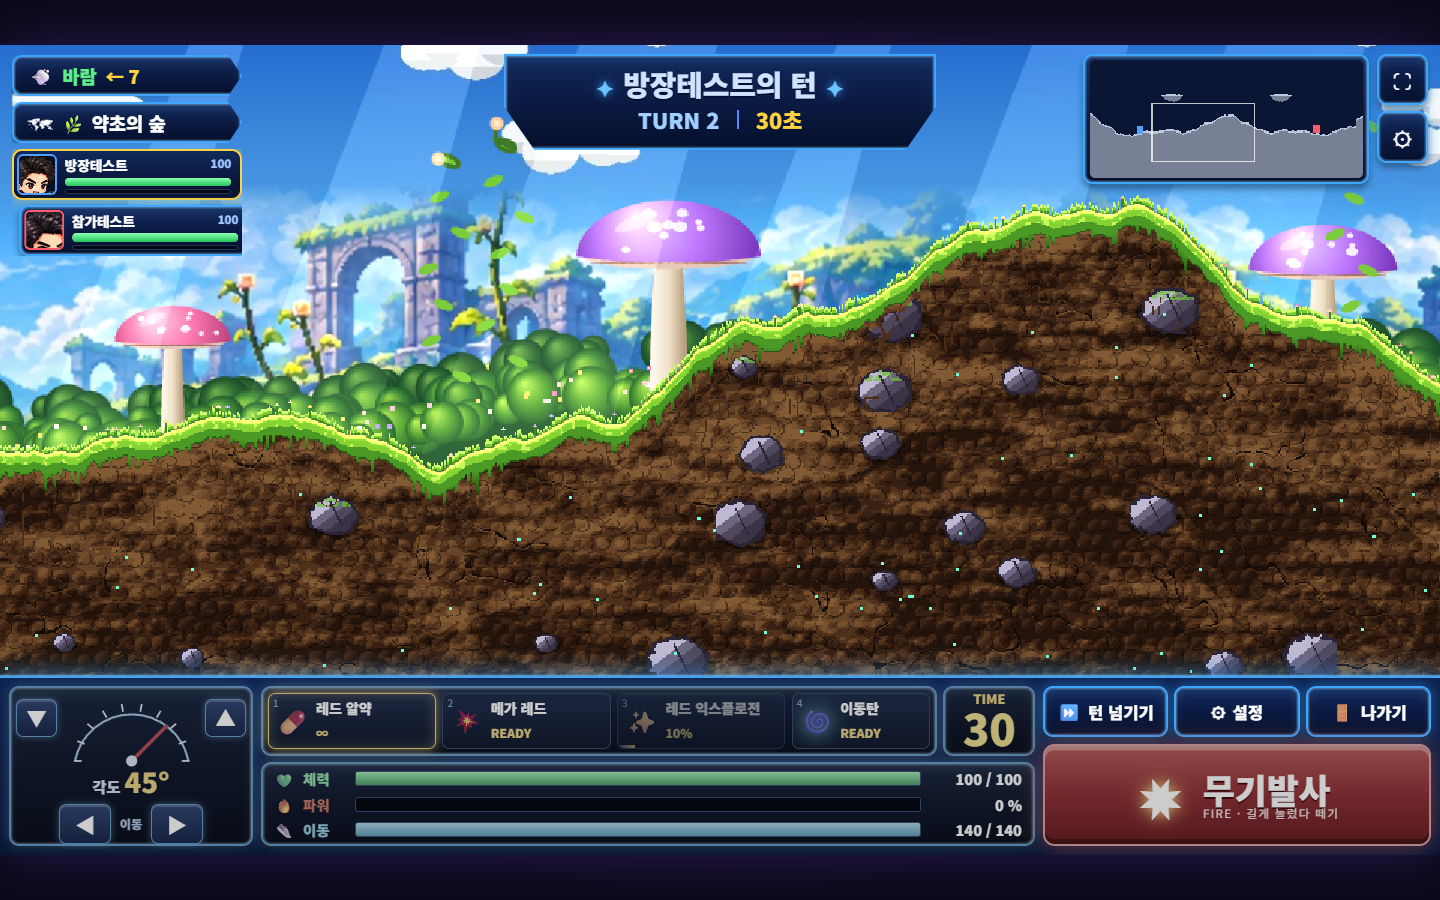
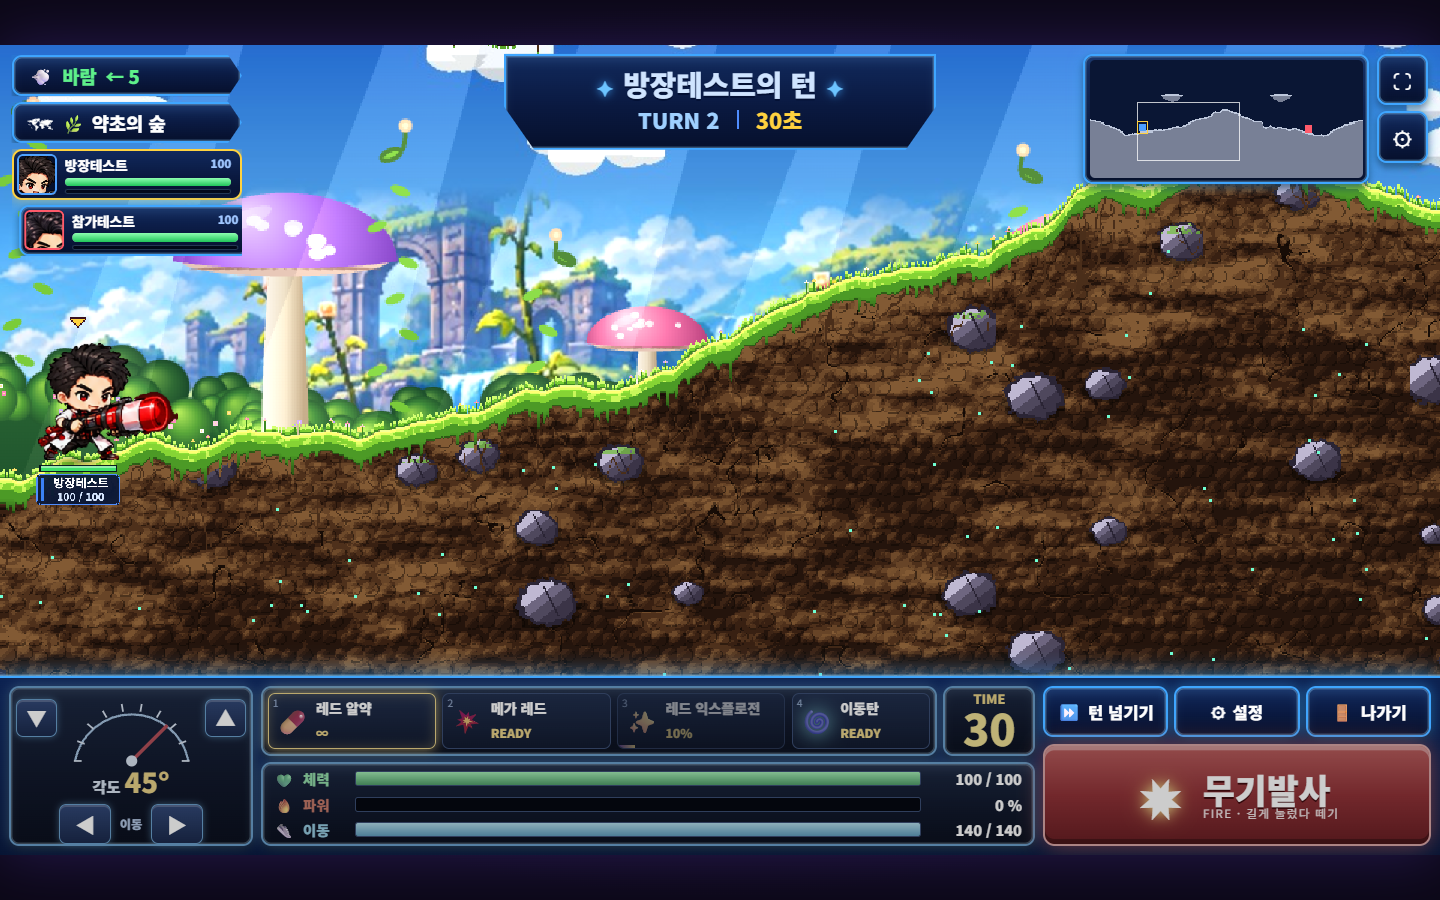
Connect Render server with cold-start handling

diff --git a/src/online/client.ts b/src/online/client.ts
@@ -4,43 +4,71 @@ export class OnlineClient {
   private ws: WebSocket | null = null;
   private heartbeat: number | null = null;
   private lastMessage = 0;
+  private pending: AbortController | null = null;
   id = '';
   onMessage: (m: ServerMessage) => void = () => {};
   onDisconnect: () => void = () => {};
   get connected() { return this.ws?.readyState === WebSocket.OPEN; }
   async connect() {
     this.close();
-    const response = await fetch(import.meta.env.BASE_URL + 'online-config.json', { cache: 'no-store' });
-    if (!response.ok) throw new Error('온라인 서버 설정을 읽을 수 없습니다.');
-    const config = await response.json();
-    const url = new URL(config.url);
-    if (!['ws:', 'wss:'].includes(url.protocol)) throw new Error('서버 주소가 올바르지 않습니다.');
-    let token = ''; try { token = sessionStorage.getItem('pf_guest_token') || ''; } catch {}
-    if (token) url.searchParams.set('token', token);
-    await new Promise<void>((resolve, reject) => {
-      const ws = this.ws = new WebSocket(url);
-      const timeout = window.setTimeout(() => { reject(new Error('서버 연결이 지연되고 있습니다. 다시 시도해 주세요.')); ws.close(); }, 20000);
-      ws.onmessage = e => {
-        this.lastMessage = Date.now();
-        const m = JSON.parse(e.data) as ServerMessage;
-        if (m.type === 'hello') {
-          clearTimeout(timeout);
-          if (m.version !== PROTOCOL) { reject(new Error('새로고침 후 다시 접속해 주세요.')); ws.close(); return; }
-          this.id = m.id; try { sessionStorage.setItem('pf_guest_token', m.token); } catch {}
-          resolve();
-        }
-        this.onMessage(m);
-      };
-      ws.onclose = () => { clearTimeout(timeout); reject(new Error('서버 연결이 종료되었습니다.')); this.clearHeartbeat(); this.onDisconnect(); };
-      ws.onerror = () => { clearTimeout(timeout); reject(new Error('온라인 서버에 연결할 수 없습니다.')); };
-    });
-    this.lastMessage = Date.now();
-    this.heartbeat = window.setInterval(() => {
-      if (Date.now() - this.lastMessage > 18000) this.ws?.close();
-      else this.send({ type: 'ping' });
-    }, 5000);
+    const pending = this.pending = new AbortController();
+    const deadline = window.setTimeout(() => pending.abort(new Error('서버 연결이 지연되고 있습니다. 다시 시도해 주세요.')), 90000);
+    try {
+      const response = await fetch(import.meta.env.BASE_URL + 'online-config.json', { cache: 'no-store', signal: pending.signal });
+      if (!response.ok) throw new Error('온라인 서버 설정을 읽을 수 없습니다.');
+      const config = await response.json();
+      const url = new URL(config.url);
+      if (!['ws:', 'wss:'].includes(url.protocol)) throw new Error('서버 주소가 올바르지 않습니다.');
+      // Free hosting may need time to wake before it accepts a WebSocket upgrade.
+      const health = new URL('/health', url);
+      health.protocol = url.protocol === 'wss:' ? 'https:' : 'http:';
+      for (;;) {
+        pending.signal.throwIfAborted();
+        let ready = false;
+        try {
+          const result = await fetch(health, { cache: 'no-store', signal: AbortSignal.any([pending.signal, AbortSignal.timeout(10000)]) });
+          ready = result.ok && (await result.json()).ok === true;
+        } catch { pending.signal.throwIfAborted(); }
+        if (ready) break;
+        await new Promise<void>((resolve, reject) => {
+          const cancel = () => { clearTimeout(timer); reject(pending.signal.reason); };
+          const timer = window.setTimeout(() => { pending.signal.removeEventListener('abort', cancel); resolve(); }, 1500);
+          pending.signal.addEventListener('abort', cancel, { once: true });
+        });
+      }
+      pending.signal.throwIfAborted();
+      let token = ''; try { token = sessionStorage.getItem('pf_guest_token') || ''; } catch {}
+      if (token) url.searchParams.set('token', token);
+      await new Promise<void>((resolve, reject) => {
+        const ws = this.ws = new WebSocket(url);
+        const cancel = () => { reject(pending.signal.reason); ws.close(); };
+        pending.signal.addEventListener('abort', cancel, { once: true });
+        const done = () => pending.signal.removeEventListener('abort', cancel);
+        ws.onmessage = e => {
+          this.lastMessage = Date.now();
+          const m = JSON.parse(e.data) as ServerMessage;
+          if (m.type === 'hello') {
+            done();
+            if (m.version !== PROTOCOL) { reject(new Error('새로고침 후 다시 접속해 주세요.')); ws.close(); return; }
+            this.id = m.id; try { sessionStorage.setItem('pf_guest_token', m.token); } catch {}
+            resolve();
+          }
+          this.onMessage(m);
+        };
+        ws.onclose = () => { done(); reject(new Error('서버 연결이 종료되었습니다.')); this.clearHeartbeat(); this.onDisconnect(); };
+        ws.onerror = () => { done(); reject(new Error('온라인 서버에 연결할 수 없습니다.')); };
+      });
+      this.lastMessage = Date.now();
+      this.heartbeat = window.setInterval(() => {
+        if (Date.now() - this.lastMessage > 18000) this.ws?.close();
+        else this.send({ type: 'ping' });
+      }, 5000);
+    } finally {
+      clearTimeout(deadline);
+      if (this.pending === pending) this.pending = null;
+    }
   }
   send(message: object) { if (this.connected) this.ws!.send(JSON.stringify(message)); }
   private clearHeartbeat() { if (this.heartbeat !== null) clearInterval(this.heartbeat); this.heartbeat = null; }
-  close() { this.clearHeartbeat(); if (this.ws) { this.ws.onclose = null; this.ws.onmessage = null; this.ws.close(); this.ws = null; } }
+  close() { this.clearHeartbeat(); if (this.ws) { this.ws.onclose = null; this.ws.onmessage = null; this.ws.onerror = null; this.ws.close(); this.ws = null; } this.pending?.abort(); this.pending = null; }
 }

diff --git a/src/online/lobby.ts b/src/online/lobby.ts
@@ -13,6 +13,8 @@ export class OnlineLobby {
   status = '서버에 연결하는 중…';
   private nickname = '';
   private noticeTimer = 0;
+  private connecting = false;
+  private connectVersion = 0;
   onStart: (m: StartMatch) => void = () => {};
   onFrame: (m: Frame) => void = () => {};
   onShow: () => void = () => {};
@@ -35,9 +37,15 @@ export class OnlineLobby {
     this.element.addEventListener('input', e => { const t = e.target as HTMLInputElement; if (t.name === 'nickname') { this.nickname = t.value; try { localStorage.setItem('pf_nickname', t.value); } catch {} } });
     this.render();
   }
-  async connect() { this.status = '서버에 연결하는 중…'; this.render(); try { await this.client.connect(); } catch (e) { this.status = (e as Error).message; this.render(); } }
+  async connect() {
+    const version = ++this.connectVersion;
+    this.connecting = true; this.status = '서버에 연결하는 중… 첫 접속은 약 1분 걸릴 수 있어요.'; this.render();
+    try { await this.client.connect(); }
+    catch (e) { if (version === this.connectVersion) this.status = (e as Error).message; }
+    finally { if (version === this.connectVersion) { this.connecting = false; this.render(); } }
+  }
   show() { this.playing = false; this.render(); }
-  close() { this.client.close(); window.clearTimeout(this.noticeTimer); }
+  close() { this.connectVersion++; this.client.close(); window.clearTimeout(this.noticeTimer); }
   private notice(message: string) {
     let toast = document.getElementById('online-notice');
     if (!toast) { toast = document.createElement('div'); toast.id = 'online-notice'; document.body.appendChild(toast); }
@@ -76,7 +84,7 @@ export class OnlineLobby {
     const cursor = focused ? (document.activeElement as HTMLInputElement).selectionStart : null;
     const r = this.room, me = r?.members.find(m => m.id === this.client.id), host = r?.host === this.client.id;
     this.element.innerHTML = `<div class="online-shell"><header><div><small>PHARMACIST FORTRESS · ONLINE</small><h1>${r ? esc(r.title) : '온라인 대전'}</h1></div><button data-action="${r ? 'leave' : 'back'}" class="btn ghost">${r ? '방 나가기' : '메인으로'}</button></header>
-      ${this.status ? `<div class="online-state">${esc(this.status)}<button class="btn" data-action="retry">다시 연결</button></div>` : ''}
+      ${this.status ? `<div class="online-state">${esc(this.status)}<button class="btn" data-action="retry" ${this.connecting ? 'disabled' : ''}>${this.connecting ? '연결 중…' : '다시 연결'}</button></div>` : ''}
       ${r && me ? this.roomMarkup(r, me.id, !!host) : `<div class="online-browser"><section class="online-create"><h2>로그인 없이 바로 참여</h2><p>닉네임을 정하고 방을 만들거나 공개 대기실에 입장하세요.</p>
         <label>닉네임<input name="nickname" maxlength="16" placeholder="닉네임" value="${esc(this.nickname)}"></label>
         <label>대기실 이름<input name="title" maxlength="32" placeholder="함께 즐겨요!" value="${esc(draftTitle)}"></label>

diff --git a/tests/online-client.test.ts b/tests/online-client.test.ts
@@ -1,0 +1,64 @@
+import { afterEach, beforeEach, expect, it, vi } from 'vitest';
+import { OnlineClient } from '../src/online/client';
+import { PROTOCOL } from '../src/online/protocol';
+
+class Socket {
+  static OPEN = 1;
+  static instances: Socket[] = [];
+  readyState = 1;
+  onmessage: ((event: { data: string }) => void) | null = null;
+  onclose: (() => void) | null = null;
+  onerror: (() => void) | null = null;
+  constructor() { Socket.instances.push(this); }
+  send() {}
+  close() { this.readyState = 3; }
+  hello() { this.onmessage?.({ data: JSON.stringify({ type: 'hello', version: PROTOCOL, id: 'guest', token: 'token' }) }); }
+}
+let client: OnlineClient;
+let readyAt: number;
+beforeEach(() => {
+  vi.useFakeTimers();
+  vi.stubGlobal('window', globalThis);
+  vi.stubGlobal('WebSocket', Socket);
+  Socket.instances = [];
+  readyAt = Date.now() + 60000;
+  vi.stubGlobal('fetch', vi.fn(async (url: string | URL) => String(url).includes('online-config.json')
+    ? { ok: true, json: async () => ({ url: 'wss://example.test/ws' }) }
+    : { ok: Date.now() >= readyAt, json: async () => ({ ok: true }) }));
+  client = new OnlineClient();
+});
+afterEach(() => { client.close(); vi.unstubAllGlobals(); vi.useRealTimers(); });
+
+it('waits through a one-minute cold start before opening the game connection', async () => {
+  const connected = client.connect();
+  await vi.advanceTimersByTimeAsync(59000);
+  expect(Socket.instances).toHaveLength(0);
+  await vi.advanceTimersByTimeAsync(1000);
+  expect(Socket.instances).toHaveLength(1);
+  Socket.instances[0].hello();
+  await connected;
+  expect(client.id).toBe('guest');
+  expect(client.connected).toBe(true);
+});
+
+it('cancels server wake-up when the player leaves without making a hidden connection', async () => {
+  const result = client.connect().catch(e => e);
+  await vi.advanceTimersByTimeAsync(1000);
+  client.close();
+  expect((await result).name).toBe('AbortError');
+  await vi.advanceTimersByTimeAsync(90000);
+  expect(Socket.instances).toHaveLength(0);
+});
+
+it('ends an unavailable-server attempt after 90 seconds so the player can retry', async () => {
+  readyAt = Infinity;
+  const result = client.connect().catch(e => e);
+  await vi.advanceTimersByTimeAsync(90000);
+  expect((await result).message).toContain('다시 시도');
+  readyAt = Date.now();
+  const retry = client.connect();
+  await vi.advanceTimersByTimeAsync(0);
+  Socket.instances[0].hello();
+  await retry;
+  expect(client.connected).toBe(true);
+});

diff --git a/README.md b/README.md
@@ -64,7 +64,7 @@ npm run build    # dist/ 정적 빌드
 1. ✅ 핵심 게임
 2. 그래픽 고도화 (캐릭터 애니메이션 프레임 확장, 이펙트 스프라이트, 사운드)
 3. 콘텐츠 확장 (캐릭터 8종+ · 맵 6종 · 캐릭터별 필살기 · 선택 화면)
-4. 온라인 멀티플레이 (Node.js + WebSocket, 서버 권한 판정)
+4. ✅ 온라인 멀티플레이 (Node.js + WebSocket, 서버 권한 판정)
 5. 최적화 및 배포
 
 ### 캐릭터 이미지 교체
@@ -97,6 +97,8 @@ npm run build    # dist/ 정적 빌드
 - 대기실은 메모리에서 운영하므로 서버가 재시작되면 초기화됩니다. 배포는 진행 중인 경기가 없을 때 권장합니다.
 
 개발: `npm run server` (3001), `npm run dev`. `public/online-config.json`에 WebSocket 주소를 설정합니다.
-운영: Dockerfile / railway.json으로 전용 단일 인스턴스 서버를 배포하고 `/health`로 확인합니다. 프런트엔드는 기존 GitHub Pages를 사용합니다.
+운영: Render Peter's workspace의 `pharmacist-fortress-online` (Singapore, Free, 단일 인스턴스). `fortress-online` 브랜치에서 `npm ci` → `npm run server`로 배포합니다. 서버 변경 시 이 브랜치도 최신 상태로 유지해야 합니다. 프런트엔드는 기존 GitHub Pages의 `main` 배포를 사용합니다.
+서버 상태: https://pharmacist-fortress-online.onrender.com/health · 무료 서버는 유휴 상태에서 잠들며 첫 접속에 약 1분이 걸릴 수 있습니다. 클라이언트는 최대 90초 동안 서버 준비를 기다립니다.
+Dockerfile / railway.json은 다른 호스팅으로 옮길 때 사용할 수 있습니다.
 게임 규칙이나 네트워크 메시지를 변경할 때는 서버와 클라이언트를 함께 배포하고 `src/online/protocol.ts`의 버전을 갱신합니다.
 테스트: `npm test`에는 방장 권한, 준비 선점 경쟁, 팀 조건, 강퇴, 입력 검증, 서버/클라이언트 지형 동기화 검사가 포함됩니다.
